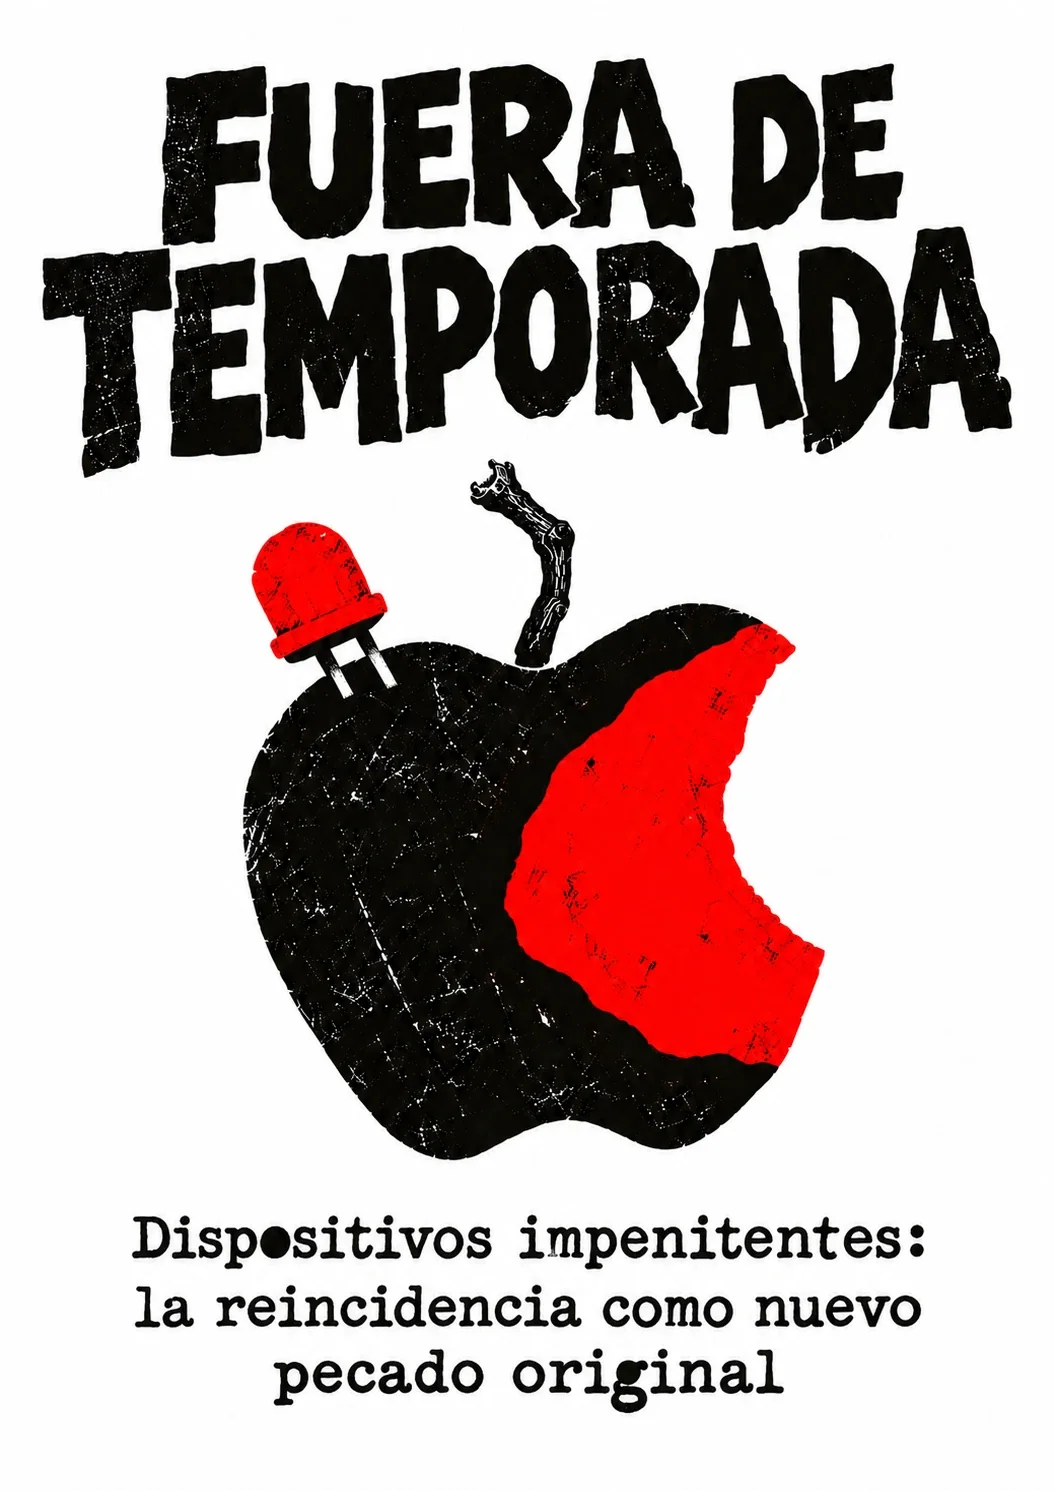
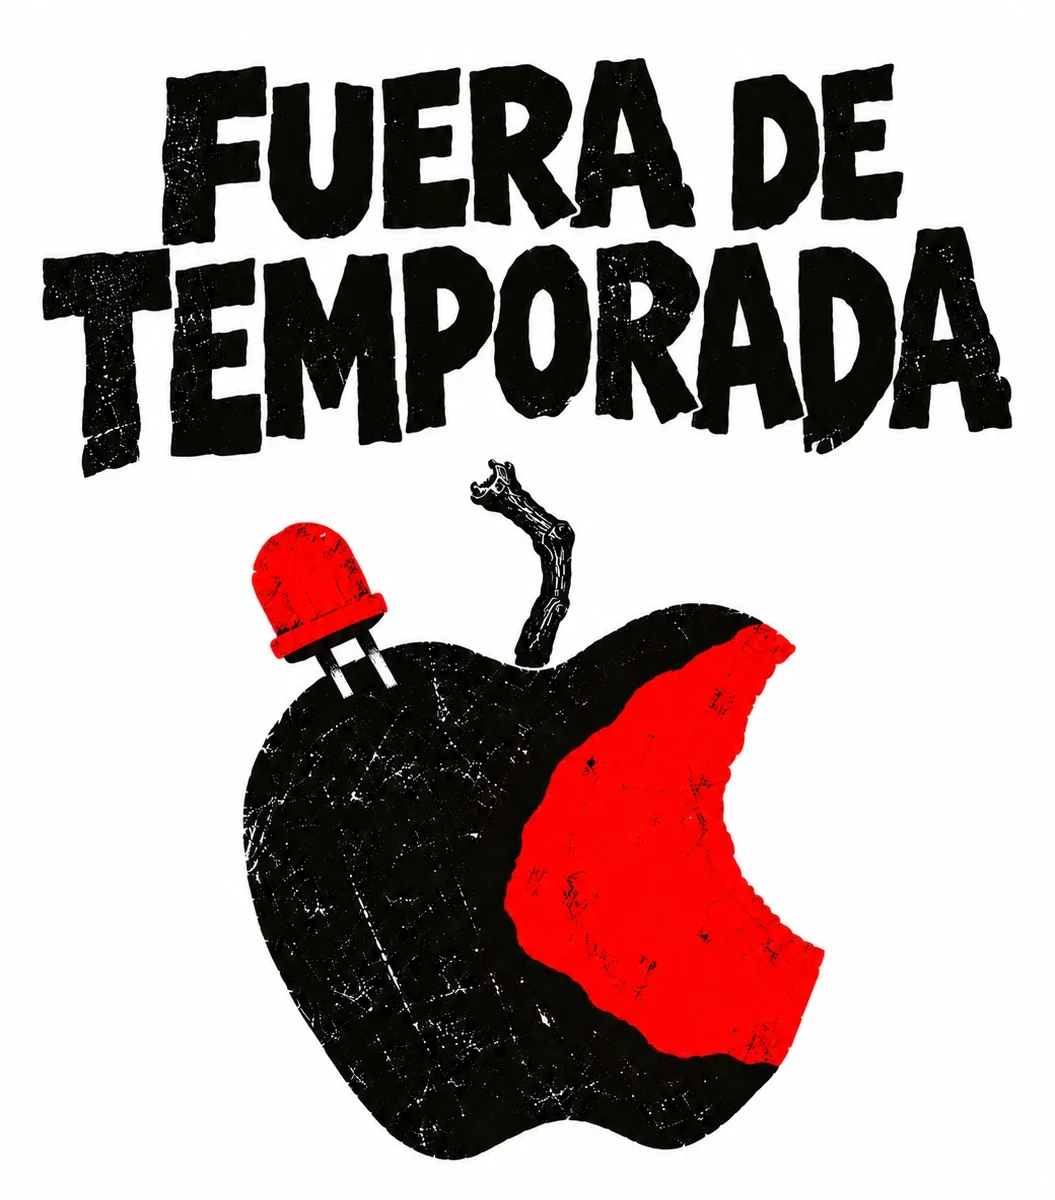
Fuera de temporada: afiche recortado abajo, sin el subtítulo (ya está en el encabezado)
Claude-Session: https://claude.ai/code/session_01WU1DRrjzPQ8yULKRB8DPyv

diff --git a/public/curso01/subcursos/curso006/contenidos/pagina-curso.md b/public/curso01/subcursos/curso006/contenidos/pagina-curso.md
@@ -1,4 +1,4 @@
-![Afiche de Fuera de temporada: una manzana negra mordida, con la mordida en rojo y un LED en lugar de la hoja. Dispositivos impenitentes: la reincidencia como nuevo pecado original](/curso01/subcursos/curso006/medios/afiche.webp)
+![Fuera de temporada: una manzana negra mordida, con la mordida en rojo y un LED en lugar de la hoja](/curso01/subcursos/curso006/medios/afiche.webp)
 
 ## El pecado de persistir
 
